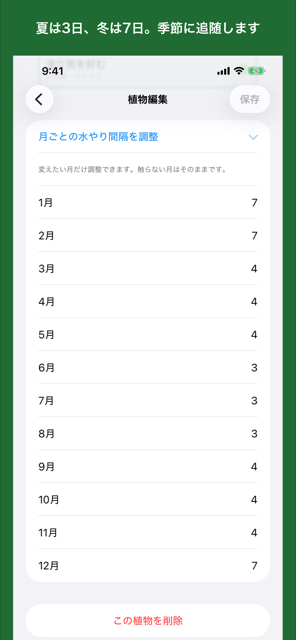
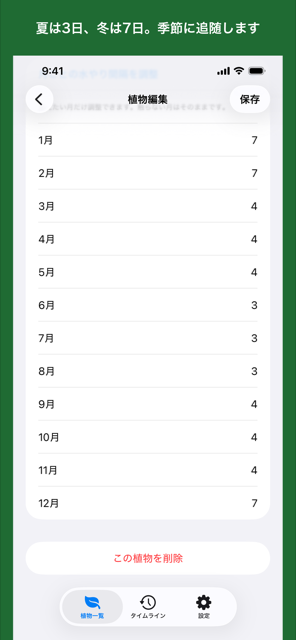
LP を公開中の ver-3.0(ストア 3.0)に揃える: 画像を v3 掲載スクショへ・タイムラインの段落をタブ構成に(2026-10-03 CEO指示)

diff --git a/index.html b/index.html
@@ -225,7 +225,7 @@
         </ul>
         <p style="margin-bottom:0">置き場所（リビング・寝室の窓際・玄関など）で絞り込めます。</p>
       </div>
-      <div class="shot"><img src="images/shot-01.png" alt="鉢の一覧。上部に「次の水やりは、あと何日」の見出し。各行に名前と「あと2日」「2日超過」などの残り日数、水やり・スキップ・お世話記録のボタンが並ぶ画面" loading="lazy"></div>
+      <div class="shot"><img src="images/shot-01.png" alt="鉢の一覧。上部に「次の水やりは、あと何日」の見出し。各行に名前と「あと7日」「あと10日」などの残り日数、水やり・スキップ・お世話記録のボタンが並び、画面下に植物一覧・タイムライン・設定のタブがある画面" loading="lazy"></div>
     </div>
   </div>
 </section>
@@ -248,7 +248,7 @@
 <section>
   <div class="wrap">
     <div class="row flip">
-      <div class="shot"><img src="images/shot-05.png" alt="設定画面。上部に「通知は「土を触って確認してみよう」」の見出し。iCloud同期、リマインダー通知のオンオフ、通知する時刻9:00、サポートなどのリンクが並ぶ" loading="lazy"></div>
+      <div class="shot"><img src="images/shot-05.png" alt="設定タブの画面。上部に「通知は「土を触って確認してみよう」」の見出し。iCloud同期、リマインダー通知のオンオフ、通知する時刻9:00、サポートなどのリンクが並ぶ" loading="lazy"></div>
       <div>
         <h2>通知は「確認」をうながします<span class="tag free">無料</span></h2>
         <p>
@@ -279,7 +279,7 @@
           どれも記録できて、どれも無料です。水やりだけは、記録すると次の予定日が更新されます。
         </p>
       </div>
-      <div class="shot"><img src="images/shot-02.png" alt="記録するお世話を選ぶ画面。上部に「お世話は8種類、すべて無料」の見出し。水やり・剪定・植え替え・施肥・葉の世話・害虫駆除・支柱立て・日光浴の8つのアイコンが並ぶ" loading="lazy"></div>
+      <div class="shot"><img src="images/shot-02.png" alt="記録するお世話を選ぶ画面。上部に「お世話は8種類、すべて無料」の見出し。背後の画面のタイトルは植物名。水やり・剪定・植え替え・施肥・葉の世話・害虫駆除・支柱立て・日光浴の8つのアイコンが並ぶ" loading="lazy"></div>
     </div>
   </div>
 </section>
@@ -287,11 +287,11 @@
 <section>
   <div class="wrap">
     <div class="row flip">
-      <div class="shot"><img src="images/shot-03.png" alt="すべての鉢のお世話記録が日付の新しい順に並ぶ「すべてのお世話」画面。上部に「鉢をまたいで、今日のお世話を振り返る」の見出し。今日・昨日・9月13日のように日付ごとに、鉢の名前とお世話の種類と時刻が並ぶ" loading="lazy"></div>
+      <div class="shot"><img src="images/shot-03.png" alt="タイムラインタブの「すべてのお世話」画面。上部に「1日のお世話と写真を、鉢ごとに振り返る」の見出し。今日・昨日の日付ごとに、鉢の名前と、その日のお世話のアイコンや写真のサムネイルが1行にまとまって並ぶ" loading="lazy"></div>
       <div>
         <h2>鉢をまたいで振り返れます<span class="tag free">無料</span></h2>
         <p style="margin-bottom:0">
-          ホーム上部のボタンから、登録したすべての鉢のお世話記録を、日付の新しい順に1本の時系列で振り返れます。
+          画面下の「タイムライン」タブで、登録したすべての鉢のお世話記録を、日付の新しい順に1本の時系列で振り返れます。鉢やお世話の種類での絞り込み、同じ鉢の同じ日のお世話を1行にまとめる表示、写真だけの記録のサムネイル表示ができます。
         </p>
       </div>
     </div>

diff --git a/README.md b/README.md
@@ -2,8 +2,8 @@
 
 iPhone アプリ「Sodato 観葉植物の水やり記録」（ホーム画面の表示名は Sodato、内部名 PlantCareLog）の製品紹介ページ。GitHub Pages（main）で公開している。
 
-- 内容の版: **ver-2.0（ストア 2.0・2026-09-16 公開）**。2026-09-28 に更新（d-yso5qm）
-- 文言の正本: アプリ側リポジトリ `plant-care-log` の `docs/appstore/asc-paste/`（`description.txt`＝CEO が ASC で手直しした後の実値。公開中の説明文と一致）・`docs/appstore/ver-2.0-submission.md`・`docs/appstore/v2-store-listing.md`。LP で新しい言い回しを作らず、ここに揃える
+- 内容の版: **ver-3.0（ストア 3.0・2026-10-03 公開）**。2026-10-03 に更新（画像を v3 に差し替え・タイムラインの段落をタブ構成に。CEO 指示）
+- 文言の正本: アプリ側リポジトリ `plant-care-log` の `docs/appstore/asc-paste/`（`description.txt`＝公開中の説明文と一致）・`docs/appstore/ver-3.0-submission.md`。LP で新しい言い回しを作らず、ここに揃える
 
 - 公開URL: https://shoheicraftdev-design.github.io/sodato-lp/
 - App Store: **公開中**。`https://apps.apple.com/jp/app/id6798340201`
@@ -13,14 +13,13 @@ iPhone アプリ「Sodato 観葉植物の水やり記録」（ホーム画面の
 ## 位置づけ
 
 えも日LP（`emo-diary-lp`）と同じく、**匿名ライン（note・Xで製品名を出さない）を維持したまま
-アプリ名とストアURLを出せるチャネル**。ASC のマーケティングURLには**設定していない**（空欄のまま。
-`plant-care-log/docs/appstore/v2-store-listing.md` §8。入れる場合はその決定をアプリ側に記録してから）。
+アプリ名とストアURLを出せるチャネル**。ASC のマーケティングURLに**この LP を設定している**（ストア 3.0 から・2026-10-02 CEO 指示。`plant-care-log/docs/appstore/ver-3.0-submission.md` #31）。
 サポート・法務ページは別リポジトリ `sodato-support` が持つ（ここには置かない）。
 
 ## 素材
 
 `images/` のスクリーンショットは、アプリ側リポジトリ `plant-care-log` の
-`docs/appstore/screenshots/v2/iphone-6.7-1284x2778/`（ver-2.0 の掲載スクショ・上部にキャプション1行入り）を
+`docs/appstore/screenshots/v3/iphone-6.7-1284x2778/`（ver-3.0 の掲載スクショ・上部にキャプション1行入り）を
 長辺640pxへ縮小したもの（`sips -Z 640`）。
 差し替える場合は元の 1284×2778 から作り直すこと。`appicon.png` は
 `PlantCareLog/Assets.xcassets/AppIcon.appiconset/AppIcon-1024.png` の縮小。
